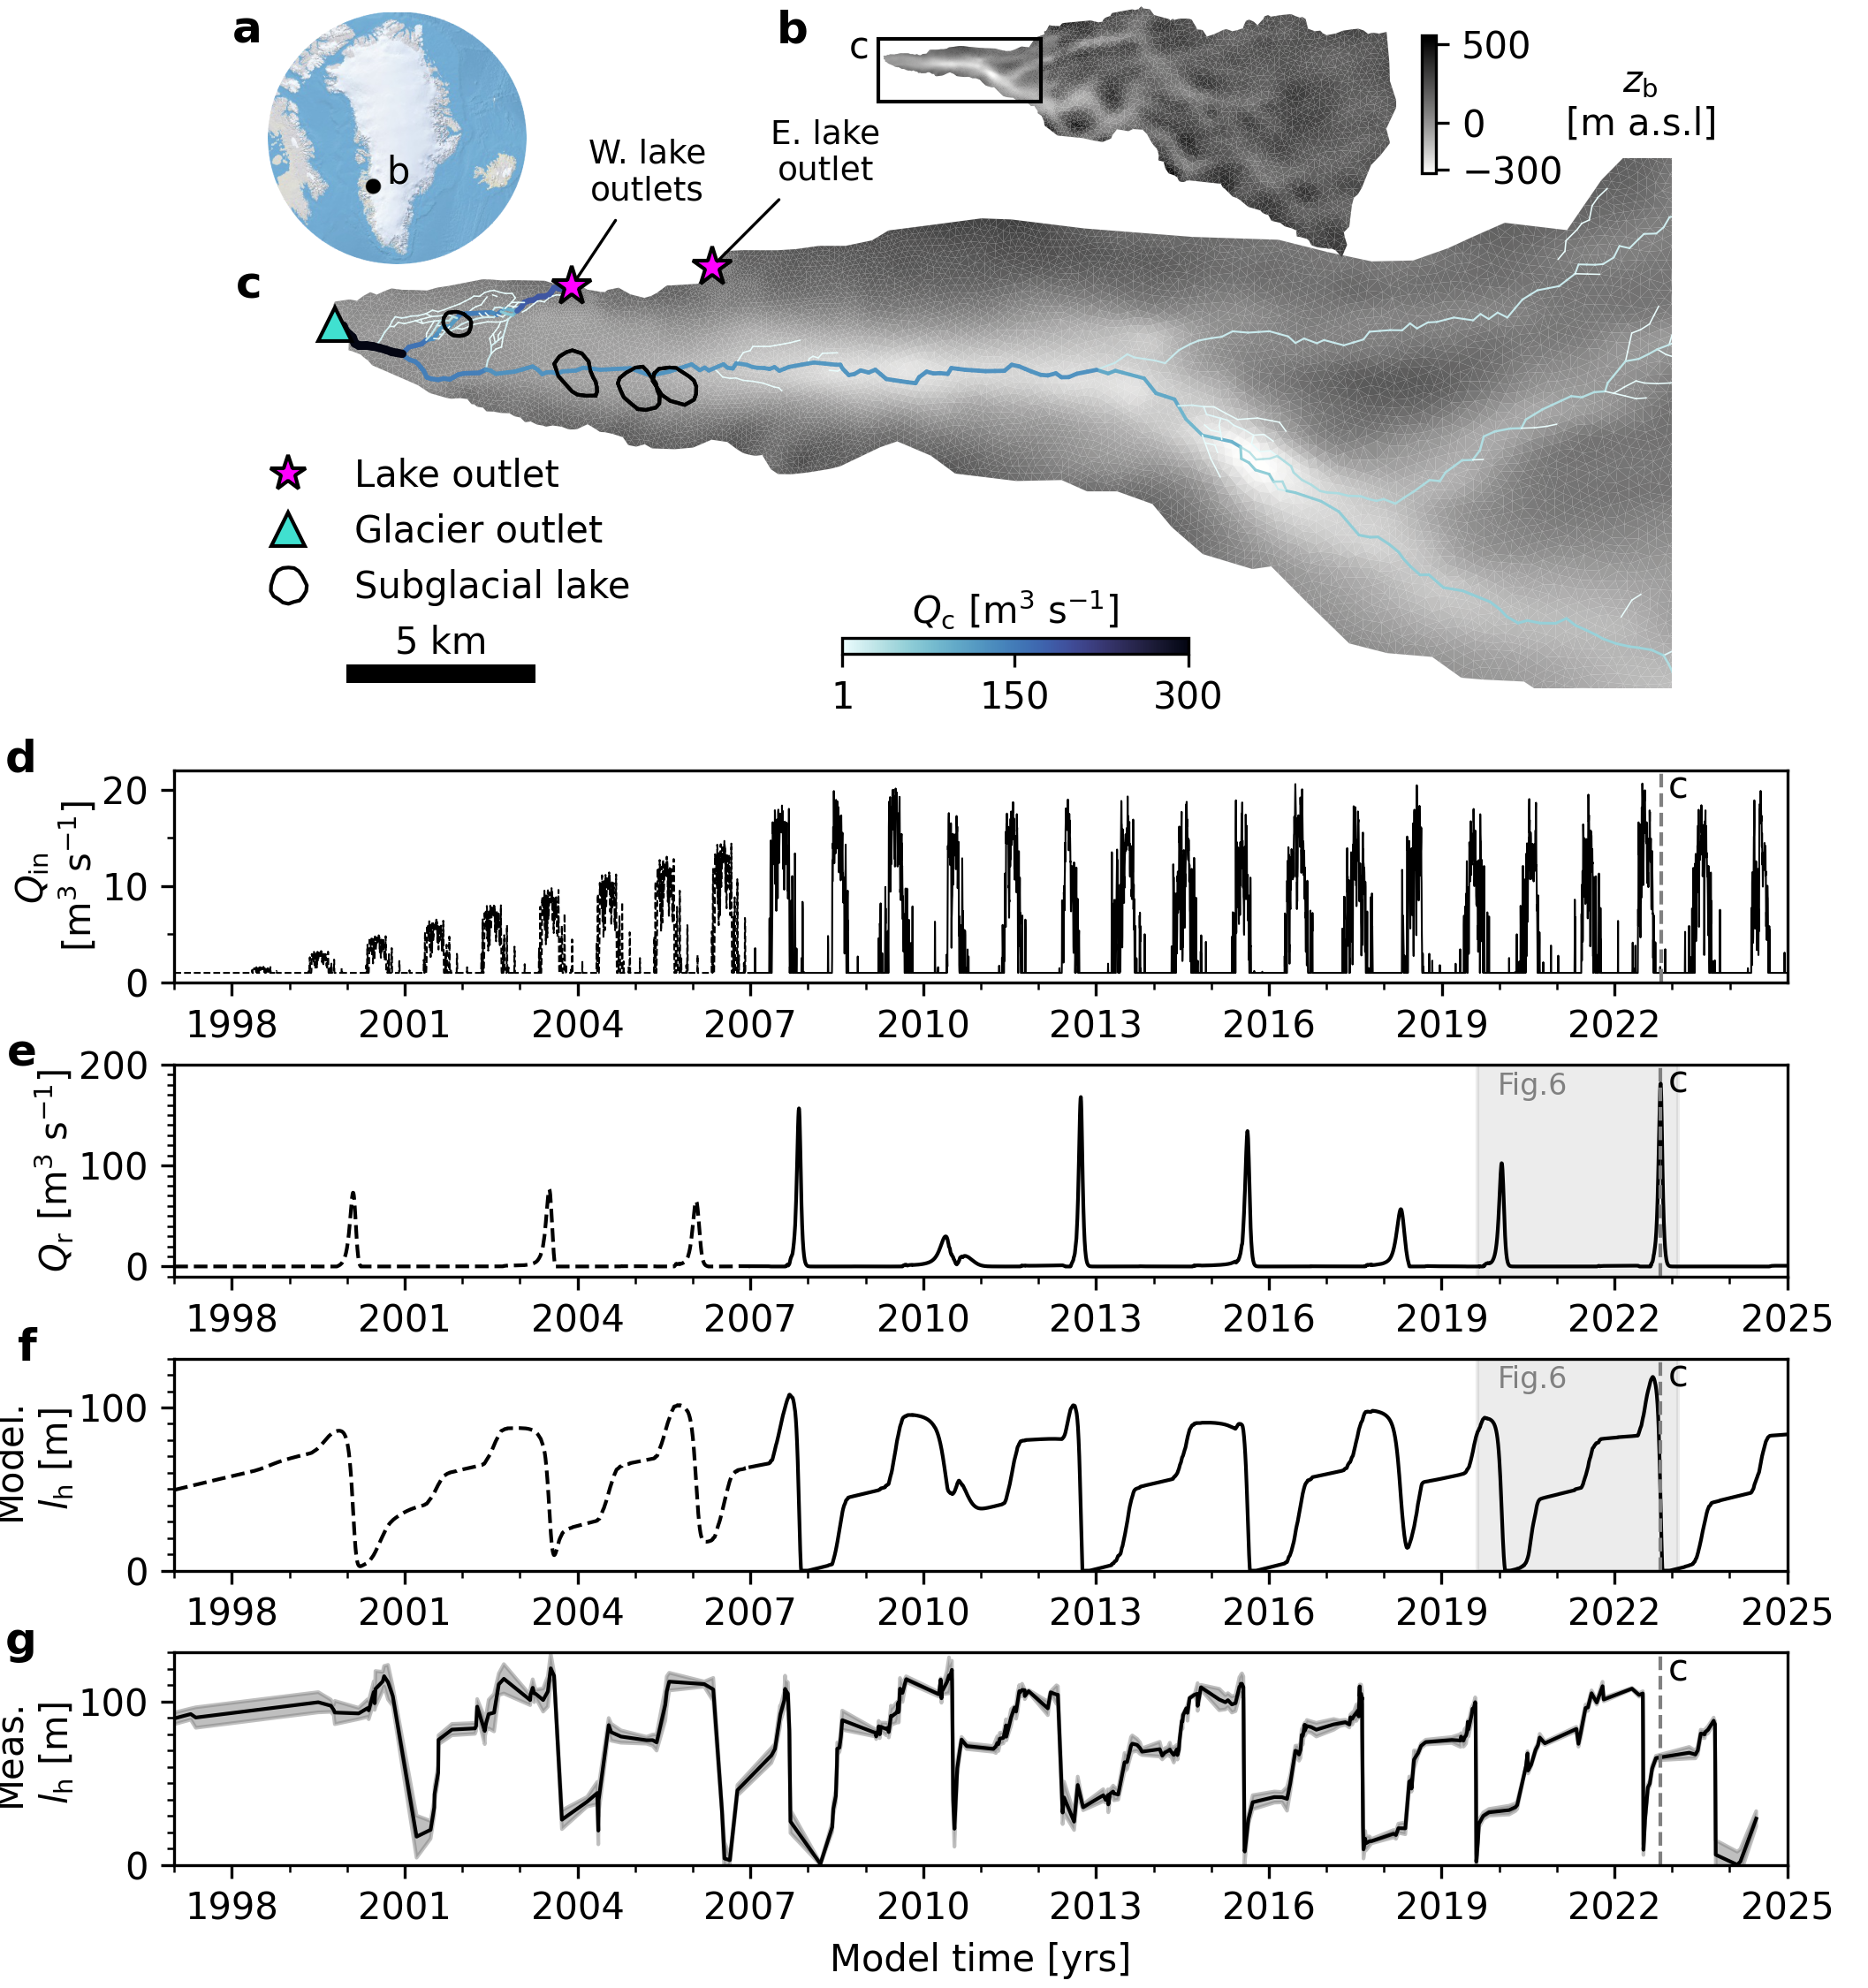
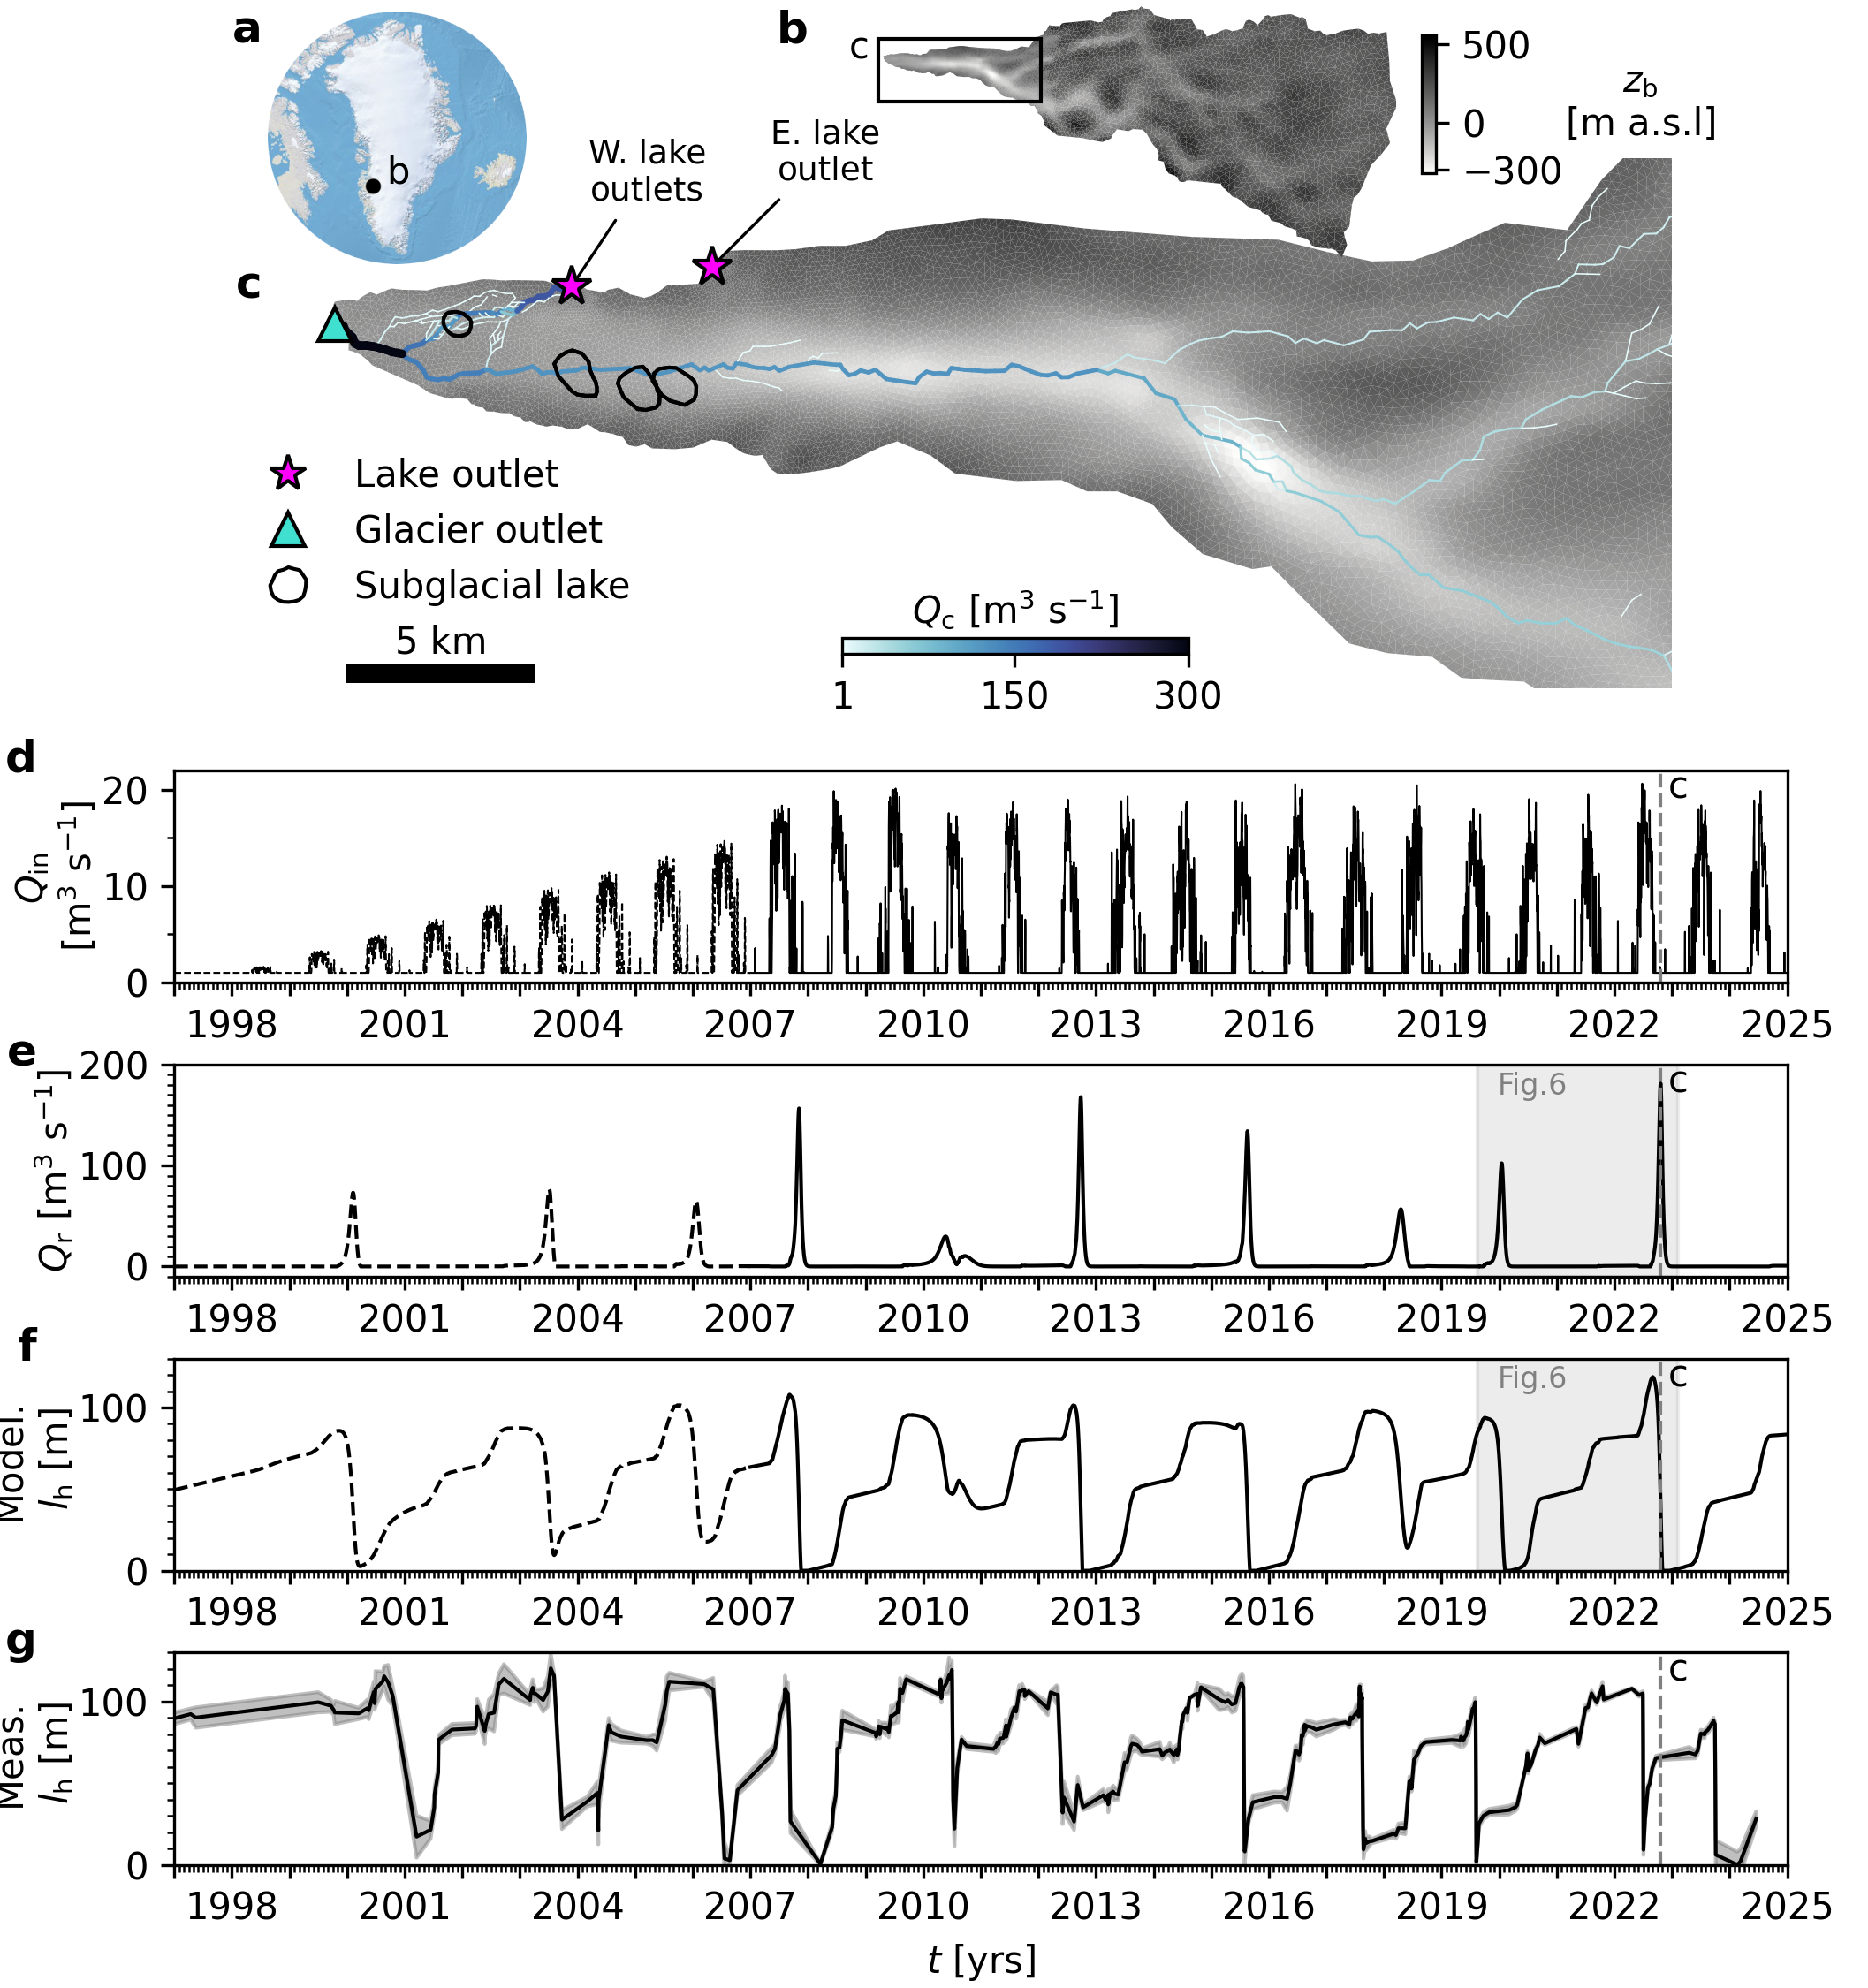
starting the limitations and future work section

diff --git a/manuscript/MANUSCRIPT.tex b/manuscript/MANUSCRIPT.tex
@@ -21,7 +21,7 @@
 
 \begin{document}
 
-\title[2D model of Jökulhlaup]{A physically consistent representation of Jökulhlaup floods in a fully-coupled 2D subglacial hydrology model}
+\title[2D model of jökulhlaup propagation]{A physically consistent representation of jökulhlaup in a fully-coupled 2D subglacial hydrology model}
 
 \author[Hepburn and others]{Adam J. HEPBURN,$^{1,*}$
 Sammie BUZZARD,$^{2}$
@@ -149,12 +149,11 @@ In this paper we build upon earlier 1D work \citep{kingslake2013modelling} by co
 
 \subsection{Ice Flow and subglacial drainage models}\label{methods:GlaDS}
 
-We used the GlaDS model \citep{werder2013modeling} as integrated into ISSM \citep{larour2012continental}. GlaDS itself is a widely used (REF) 2D continuum model of subglacial hydrology. We refer interested readers to Appendix~\ref{Appendix:GlaDS} for an overview of key GlaDS equations, and to \citet{werder2013modeling} for a full description of the equations governing water flow. In summary, GlaDS operates on an anisotropic mesh generated using ISSM and includes a description of i) distributed flow through a series of linked cavities represented as a continuous sheet with variable thickness, and ii) channelised flow through Röthlisberger channels that are represented along element edges. Sheet elements exchange water with channels, and the cross-sectional area of these channels evolves through time due to the dissipation of potential energy, sensible heat exchange, and cavity closure rates due to viscous ice creep. Discharge in both the distributed ($q_{\mathrm{s}}$, $\mathrm{m}^2 \mathrm{s}^{-1}$) and channelised system ($Q_{\mathrm{c}}$, $\mathrm{m}^{3} \mathrm{s}^{-1}$) is driven by gradients in the hydraulic potential, $\nabla \phi$ ($\mathrm{Pa}\,\mathrm{m}^{-1}$), with steeper hydraulic gradients driving enhanced water discharge. In GlaDS, $Q_{\mathrm{c}}$ is always non-zero along every internal edge, though only a few reach a discernible discharge. For ease of visualisation we follow previous work [REF] in declaring edges where $Q_{\mathrm{c}} \geq$1 m$^3$s$^{-1}$ to be `meaningful channels' (e.g., Fig.~\ref{FIG:2}c--e, Fig.~\ref{FIG:5}c, Fig.~\ref{FIG:6}--e). ISSM is a finite element higher-order ice-flow model which operates on anisotropic meshes and can be fully-coupled to additional modelling components \citep{larour2012continental}. In addition to the ice-marginal lake modifications, which we describe below (Section~\ref{methods:Lake}), the primary difference between the original GlaDS \citep{werder2013modeling} and the ISSM version used here is that rather than assuming water flow within the sheet to always be turbulent \citep[cf:][]{werder2013modeling}, we make use of the \citet{hill2024improved} transition parametrisation, whereby sheet flow switches between laminar and turbulent flow according to the local Reynolds number. We also note that in all our model runs, we restricted creep opening once effective pressure was negative [EXPAND and formalise, this will be mentioned in the discussion]. 
-
+We used the GlaDS model \citep{werder2013modeling} as integrated into ISSM \citep{larour2012continental}. GlaDS itself is a widely used (REF) 2D continuum model of subglacial hydrology. We refer interested readers to Appendix~\ref{Appendix:GlaDS} for an overview of key GlaDS equations, and to \citet{werder2013modeling} for a full description of the equations governing water flow. In summary, GlaDS operates on an anisotropic mesh generated using ISSM and includes a description of i) distributed flow through a series of linked cavities represented as a continuous sheet with variable thickness, and ii) channelised flow through Röthlisberger channels that are represented along element edges. Sheet elements exchange water with channels, and the cross-sectional area of these channels evolves through time due to the dissipation of potential energy, sensible heat exchange, and cavity closure rates due to viscous ice creep. Discharge in both the distributed ($q_{\mathrm{s}}$, $\mathrm{m}^2 \mathrm{s}^{-1}$) and channelised system ($Q_{\mathrm{c}}$, $\mathrm{m}^{3} \mathrm{s}^{-1}$) is driven by gradients in the hydraulic potential, $\nabla \phi$ ($\mathrm{Pa}\,\mathrm{m}^{-1}$), with steeper hydraulic gradients driving enhanced water discharge. In GlaDS, $Q_{\mathrm{c}}$ is always non-zero along every internal edge, though only a few reach a discernible discharge. For ease of visualisation we follow previous work [REF] in declaring edges where $Q_{\mathrm{c}} \geq$1 m$^3$s$^{-1}$ to be `meaningful channels' (e.g., Fig.~\ref{FIG:2}c--e, Fig.~\ref{FIG:5}c, Fig.~\ref{FIG:6}--e). ISSM is a finite element higher-order ice-flow model which operates on anisotropic meshes and can be fully-coupled to additional modelling components \citep{larour2012continental}. In addition to the ice-marginal lake modifications, which we describe below (Section~\ref{methods:Lake}), the primary difference between the original GlaDS \citep{werder2013modeling} and the ISSM version used here is that rather than assuming water flow within the sheet to always be turbulent \citep[cf:][]{werder2013modeling}, we make use of the \citet{hill2024improved} transition parametrisation, whereby sheet flow switches between laminar and turbulent flow according to the local Reynolds number. We also prevent cavity expansion by ice creep when $N < 0$ (where $N$ is the effective pressure, or $N=p_{\mathrm{i}}-p_{\mathrm{w}}$, where $p_{\mathrm{i}}$ is ice pressure and $p_{\mathrm{w}}$ is water pressure, $Pa$). GlaDS does not include mechanisms to represent uplift once water pressure exceeds ice overburden \citep{tsaiandrice2010,schoofandothers2012,dow2015} and allowing this behaviour has been shown to inhibit channel formation in overpressurised regions of the bed \citep{hill2024improved}.
 
 %In addition to the ice-marginal lake modifications which we describe below (Section~\ref{methods:Lake}), we note two key differences between the original GlaDS \citep{werder2013modeling} and the ISSM version used here: i) rather than assuming water flow within the sheet to always be turbulent \citep[cf:][]{werder2013modeling}, we make use of the \cite{hill2024improved} transition parametrisation, whereby sheet flow switches between laminar and turbulent flow according to the local Reynolds number, and ii) following \cite{stevens2022tidewater}, we implemented a viscously deforming `elastic sheet layer' which crudely represents hydraulic jacking where water pressure exceeds ice overburden pressure (see Section~\ref{Appendix:GlaDS}). 
 
-To capture the influence of ice-marginal lake drainage on ice dynamics, we include a two-way coupling between ice flow and subglacial hydrology. The GlaDS derived effective pressure ($N=p_{\mathrm{i}}-p_{\mathrm{w}}$, where $p_{\mathrm{i}}$ is ice pressure and $p_{\mathrm{w}}$ is water pressure, $Pa$) modifies basal velocity $U_{\mathrm{b}}$ ($\mathrm{m}\, \mathrm{a}^{-1}$)by governing frictional resistance at the ice-bed interface. In turn, the magnitude of $U_{\mathrm{b}}$ modifies the rate at which cavities open and thereby controls the thickness of the sheet (Eq.~\ref{appeqn: hs_cav}--\ref{appeqn: basal sliding}*). Two-way coupling between ISSM and GlaDS is a relatively new development, and the influence of friction parameters remains the subject of ongoing research \citep[e.g.,][ADD MORE REF]{khan2024inland}, though model response is known to be strongly influenced by the choice of friction law \citep{choi2023impact}. We view this work as necessarily explorative, and we do not undertake a full analysis of the modelling interactions between subglacial hydrology and ice dynamics, which is beyond the scope of this work. Rather, we seek to capture the broad influence ice-marginal lake drainage cycles have upon ice dynamics. Accordingly, we present results using two widely applied friction laws: i) the `Budd-style' friction law [REF] implemented in ISSM in terms of basal stress with the form:
+To capture the influence of ice-marginal lake drainage on ice dynamics, we include a two-way coupling between ice flow and subglacial hydrology. The GlaDS derived effective pressure $N$ modifies basal velocity $U_{\mathrm{b}}$ ($\mathrm{m}\, \mathrm{a}^{-1}$)by governing frictional resistance at the ice-bed interface. In turn, the magnitude of $U_{\mathrm{b}}$ modifies the rate at which cavities open and thereby controls the thickness of the sheet (Eq.~\ref{appeqn: hs_cav}--\ref{appeqn: basal sliding}*). Two-way coupling between ISSM and GlaDS is a relatively new development, and the influence of friction parameters remains the subject of ongoing research \citep[e.g.,][ADD MORE REF]{khan2024inland}, though model response is known to be strongly influenced by the choice of friction law \citep{choi2023impact}. We view this work as necessarily explorative, and we do not undertake a full analysis of the modelling interactions between subglacial hydrology and ice dynamics, which is beyond the scope of this work. Rather, we seek to capture the broad influence ice-marginal lake drainage cycles have upon ice dynamics. Accordingly, we present results using two widely applied friction laws: i) the `Budd-style' friction law [REF] implemented in ISSM in terms of basal stress with the form:
 
 \begin{equation}
 \label{eq:frictionBudd}
@@ -172,7 +171,7 @@ where $\tau_{\mathrm{b}}$ is the basal stress magnitude (UNITS), $C_{\mathrm{b}}
 \end{aligned}
 \end{equation}
 
-where $C_{\mathrm{s}}$ is the \textit{Schoof} friction coefficient, $m$ is a friction law exponent, and $C_{\mathrm{max}}$ is Iken's bound. 
+where $C_{\mathrm{s}}$ is the \textit{Schoof} friction coefficient, $m$ is a friction law exponent, and $C_{\mathrm{max}}$ is Iken's bound. Following \citet{mcarthur2023basal} we limit $N$ to $\geq$3\% of ice overburden pressure to prevent instabilities as $N \to 0$.
 
 
 
@@ -208,7 +207,7 @@ or the sum of the width integrated sheet discharge, $q_{\mathrm{s}}$, and channe
 \end{aligned}
 \end{equation}
 
-at all times, where $g$ is gravitational acceleration ($\mathrm{m}\,\mathrm{s}^{-1}$) and $z_{\mathrm{b}}$ is bed elevation ($\mathrm{m \ a.s.l}$). The evolving $\phi_{\mathrm{outlet}}$ handles the coupling between subgalical hydrology and ice-marginal lake by modifying the local $\nabla \phi$ and therefore changing sheet/channel discharge (see Eq.~\ref{appeqn:gladsqs} \&~\ref{appeqn: Qc}).
+at all times, where $g$ is gravitational acceleration ($\mathrm{m}\,\mathrm{s}^{-1}$) and $z_{\mathrm{b}}$ is bed elevation ($\mathrm{m \ a.s.l}$). The evolving $\phi_{\mathrm{outlet}}$ handles the coupling between subglacial hydrology and ice-marginal lake by modifying the local $\nabla \phi$ and therefore changing sheet/channel discharge (see Eq.~\ref{appeqn:gladsqs} \&~\ref{appeqn: Qc}).
 
 \subsection{Method of numerical solution}\label{methods:Numeric}
 
@@ -224,26 +223,25 @@ We solve for $l_{\mathrm{h}}$ using a Picard fixed-point iteration scheme compri
 Variable & Units & Description \\
 \hline
 $\phi$ & Pa & Hydraulic potential \\
+$N$ & Pa & Effective pressure \\
 $Q_{\mathrm{c}}$ & m$^{3}$s$^{-1}$ & Channel discharge \\
 $q_{\mathrm{s}}$ & $\mathrm{m}^{2}\,\mathrm{s}^{-1}$ & Sheet discharge \\
-$h_{\mathrm{s}}$ & m & Sheet thickness\footnote{Note this includes the elastic sheet and cavity sheet thickness, see Eq.~\ref{appeqn: hs_el}--\ref{appeqn: hs_cav}} \\
+$h_{\mathrm{s}}$ & m & Sheet thickness \\
 $l_{\mathrm{h}}$ & m & Lake Height \\
 $Q_{\mathrm{r}}$ & m$^{3}$s$^{-1}$ & Lake discharge \\
 $U_{\mathrm{b}}$ & $\mathrm{m\,a}^{-1}$ & Magnitude of basal velocity\\
 $\mathrm{u}_{\mathrm{b}}$ & $\mathrm{m\,a}^{-1}$ & x-component of basal velocity \\
-\textit{v}$_{\mathrm{b}}$ & $\mathrm{m\,a}^{-1}$ & y-component of basal velocity \\
+$\mathrm{v}_{\mathrm{b}}$ & $\mathrm{m\,a}^{-1}$ & y-component of basal velocity \\
 $S$ & $\mathrm{m}^2$ & Channel cross-sectional area \\
 \hfill \\
 $t$ & yrs & Time coordinate \\
 $X$ & km & Horizontal coordinate \\
 $Y$ & km & Vertical coordinate \\
-\hfill \\
-\hfill \\
-$N$ & Pa & Effective pressure \\
+
 \hline
 \end{tabular}
 
-\footnotetext{The first section lists dependent variables, the second section lists coordinates, and the third section lists derived variables [FIX ORDER.]}
+\footnotetext{The first section lists dependent variables and the second section lists coordinates}
 
 \end{minipage}
 \end{table}
@@ -350,7 +348,7 @@ In all simulations, the maximum lake height remains below the maximum ice thickn
 \label{FIG:3}
 \end{figure}
 
-The characteristics of the lake filling-drainage cycle across our parameter space also strongly influences the resulting basal velocity signal, and Figure~\ref{FIG:4} shows the width-averaged velocity during at least one complete flood cycle for $k_{\mathrm{c}}$, $k_{\mathrm{s}}$, and $h_{\mathrm{b}}$. Each model follows the reference case with velocity peaking before peak discharge is reached, and dropping rapidly thereafter along the falling limb of a flood. In general, shorter more intense flood cycles lead to a more rapid and higher magnitude velocity response, whereas more broad and less intense flood cycles yield a similar velocity response, maintaining peak velocity for a longer duration. However, the highest basal velocity ($>300 \mathrm{m a}^{-1}$) is associated with the low $k_{\mathrm{c}}$ case (Fig.~\ref{FIG:4}), characterised by muted lake filling-drainage cycles but a relatively high lake-level (Fig.~\ref{FIG:3}a[i]). 
+The characteristics of the lake filling-drainage cycle across our parameter space also strongly influences the resulting basal velocity signal, and Figure~\ref{FIG:4} shows the width-averaged velocity during at least one complete flood cycle for the high/low $k_{\mathrm{c}}$, $k_{\mathrm{s}}$, and $h_{\mathrm{b}}$ cases. Each model follows the reference case with velocity peaking before peak discharge is reached, and dropping rapidly thereafter along the falling limb of a flood. In general, shorter more intense flood cycles lead to a more rapid and higher magnitude velocity response, whereas more broad and less intense flood cycles yield a similar velocity response, maintaining peak velocity for a longer duration. However, the highest basal velocity ($>300 \mathrm{m a}^{-1}$) is associated with the low $k_{\mathrm{c}}$ case (Fig.~\ref{FIG:4}), characterised by muted lake filling-drainage cycles but a relatively high lake-level (Fig.~\ref{FIG:3}a[i]). 
 
 
 \begin{figure}
@@ -367,7 +365,7 @@ We applied our model to Isunnguata Sermia, an outlet glacier in West Greenland d
 
 % Field data, including passive seismics, GNSS, and time-lapse imagery is available for one drainage in 2023 \citep[see; ][]{livingstone2025ice}. 
 
-We discretised our Isunnguata Sermia domain (Source of original catchment?) using an anistropic mesh with an edge length of 150 m close to terminus, increasing to 2 km close to the upper margin of our domain at the approximate ELA (at \( H \approx 1600\ \text{m} \)). The mesh was further refined to a typical edge length of 50 m close to the lake outlets (Fig.~\ref{FIG:5}b,c). Bedmachine v5 was used for $z_{\mathrm{b}}$ and $H$ \citep[][Fig.~\ref{FIG:5}b,c]{Morlighem_Et_Al_2022}. An initialisation $U_{\mathrm{b}}$ was taken from the 2021 MEaSUREs annual mosaic \citep{MEASURES}, from which we inverted for the basal friction coefficient using an L-curve scheme \citep[following; ][]{wolovick2023regularization}. Because we have an observational constraint on ice-surface velocity, we used a Schoof-style friction law (see Eq.~\ref{eq:frictionSchoof}, Section~\ref{methods:GlaDS}) which has been shown to more faithfully represent ice-dynamics with a GlaDS derived $N$ than the Budd-style friction law used in our synthetic experiments \citep{mcarthur2023basal}. Geothermal heat flux was taken from \citet{shapiro2004inferring}, basal melt rates were taken from \citet{karlsson2021first} and surface ice temperature was taken from \citet{ettema2009higher}. The flow-law rate factor $A$ within the ice-column was derived using these surface ice temperatures and assuming a temperature-dependent Arrhenius relation following \citet{cuffey2010physics}.
+We discretised our Isunnguata Sermia domain \citep[derived from][]{lindback2015subglacial} using an anistropic mesh with an edge length of 150 m close to terminus, increasing to 2 km close to the upper margin of our domain at the approximate ELA (at \( H \approx 1600\ \text{m} \)). The mesh was further refined to a typical edge length of 50 m close to the lake outlets (Fig.~\ref{FIG:5}b,c). Bedmachine v5 was used for $z_{\mathrm{b}}$ and $H$ \citep[][Fig.~\ref{FIG:5}b,c]{Morlighem_Et_Al_2022}. An initialisation $U_{\mathrm{b}}$ was taken from the 2021 MEaSUREs annual mosaic \citep{MEASURES}, from which we inverted for the basal friction coefficient using an L-curve scheme \citep[following; ][]{wolovick2023regularization}. Because we have an observational constraint on ice-surface velocity, we used a Schoof-style friction law (see Eq.~\ref{eq:frictionSchoof}, Section~\ref{methods:GlaDS}) which has been shown to more faithfully represent ice-dynamics with a GlaDS derived $N$ than the Budd-style friction law used in our synthetic experiments \citep{mcarthur2023basal}. Geothermal heat flux was taken from \citet{shapiro2004inferring}, basal melt rates were taken from \citet{karlsson2021first} and surface ice temperature was taken from \citet{ettema2009higher}. The flow-law rate factor $A$ within the ice-column was derived using these surface ice temperatures and assuming a temperature-dependent Arrhenius relation following \citet{cuffey2010physics}.
 
 As boundary conditions to our hydrology solution, we imposed Dirichlet conditions along the western and eastern margins of the lake, as well as at the glacier terminus. Neumann (zero-inflow) conditions were imposed elsewhere. Along the western lake margin (where the glacier is always in contact with the lake), we fixed bed elevation equal to the minimum lake elevation (257.9 m a.s.l) at seven vertices, and at the eastern margin we identified the lowest elevation vertex within a group of vertices close to the observed stream and fixed this at 257.9 m. At each lake outlet (magenta stars in Fig.~\ref{FIG:4}), $\phi_\mathrm{outlet}$ was allowed to evolve with $l_{\mathrm{h}}$ (equation~\ref{eq:lakephi}). Because the lake model is spatially lumped and cannot dynamically represent intermittent lake-glacier contact along the eastern margin, prescribing the same boundary conditions here as along the western lake boundary provides a simple and consistent boundary treatment and ensures subglacial channel discharge is fed into the ice-marginal lake. At the glacier terminus we prescribe $\phi$ equal to atmospheric pressure at the lowest elevation boundary vertex (cyan triangle in Fig.~\ref{FIG:5}c). Within the ice-dynamic solution, the boundary velocity is given by the initialisation $U_{\mathrm{b}}$ (Dirichlet), except at the western lake margin where velocity is allowed to evolve freely (Neumann). 
 
@@ -396,9 +394,9 @@ where the temperature-index coefficient $ k $ is equal to $2\ \mathrm{m}^{3}\mat
 \hline
 Description & Symbol & Value & Units \\
 \hline
-Schoof friction coefficient & $C_{\mathrm{s}}$ & & \\
+Schoof friction coefficient & $C_{\mathrm{s}}$ & & $\mathrm{Pa} \ \mathrm{m}^{-1/n}\mathrm{s}^{1/n$ \\
 Iken's bound & $C_{\mathrm{max}}$ & 0.5 & \\
-Channel conductivity & $k_{\mathrm{c}}$ & 0.02 & $\mathrm{m}^{\frac{3}{2}}\mathrm{kg}^{-\frac{1}{2}}$ \\
+Channel conductivity & $k_{\mathrm{c}}$ & 0.02 & $\mathrm{m}^{\frac{3}{2}}$kg$^{-\frac{1}{2}}$ \\
 Sheet conductivity & $k_{\mathrm{s}}$& 0.05 & $\mathrm{Pa\ s}^{-1}$ \\ 
 Basal bump height & $h_{\mathrm{b}}$& 0.05 & m \\
 Englacial void ratio & $e_{\mathrm{v}}$ & 0.01 & \\
@@ -433,9 +431,9 @@ Each flood reaches a higher peak discharge (Fig.~\ref{FIG:5}e) than in the synth
 
 The timing of lake highstands in our transient phase aligns well with that in the observed record. Eight clear lake highstands are evident in the observed record (Fig.~\ref{FIG:5}g) between 2007--2024, seven of which corresponds with an observed lake highstand to within $\sim$2 months (Fig.~\ref{FIG:5}f). Further, There is overall agreement between model and observation for events in which the lake was observed to partially drain (e.g., 2010--2011) rather than drain completely (e.g., 2007--2008) though this match is not perfect (e.g., 2013) and is likely partly influenced by gaps in the observational record \citep{livingstone2025ice}. 
 
-Though variable in peak discharge and duration, the typical evolution of channels during a flood cycle is shown in Fig.~\ref{FIG:6}. On reaching lake highstand, the development of a significant channel connection between the lake and the primary drainage axis enables flood onset and the sharp drop in lake level (Fig.~\ref{FIG:6}b). Once the lake is empty, and $\nabla\phi$ sufficiently low at the western lake outlet, the lake draining channel is starved of supply and shuts down by creep closure. At the lake lowstand, once $\nabla\phi$ is close to atmospheric pressure, drainage into the lake from the eastern lake outlet begins in summer (2020) and the lake quickly fills to $\sim 50\ \mathrm{m}$. In the 2021 summer (Fig.~\ref{FIG:6}d) and 2022 summer, no significant channels develop at the eastern lake outlet, and $Q_{\mathrm{in}}$ accounts for the rise in $l_{\mathrm{h}}$. By the end of the 2022 melt season (Fig.~\ref{Fig:5}c, \& Fig.~\ref{FIG:6}e), a relatively high discharge flood drains the lake via a series of channels connected to the primary drainage axis. Though seven vertices along the western lake outlet are connected to the lake, discharge at the lake boundary is concentrated within a single high-discharge channel. Closer towards the terminus this channel diverges and branches into multiple lower discharge channels running sub-parallel to the main lake-draining channel and perpendicular to $\nabla \phi$ (see Section~\ref{application:synth}). 
+Though variable in peak discharge and duration, the typical evolution of channels during a flood cycle is shown in Fig.~\ref{FIG:6}. On reaching lake highstand, the development of a significant channel connection between the lake and the primary drainage axis enables flood onset and the sharp drop in lake level (Fig.~\ref{FIG:6}b). Once the lake is empty, and $\nabla\phi$ sufficiently low at the western lake outlet, the lake draining channel is starved of supply and shuts down by creep closure. At the lake lowstand, once $\nabla\phi$ is close to atmospheric pressure, drainage into the lake from the eastern lake outlet begins in summer (2020) and the lake quickly fills to $\sim 50\ \mathrm{m}$. In the 2021 summer (Fig.~\ref{FIG:6}d) and 2022 summer, no significant channels develop at the eastern lake outlet, and $Q_{\mathrm{in}}$ accounts for the rise in $l_{\mathrm{h}}$. By the end of the 2022 melt season (Fig.~\ref{FIG:5}, \& Fig.~\ref{FIG:6}e), a relatively high discharge flood drains the lake via a series of channels connected to the primary drainage axis. Though seven vertices along the western lake outlet are connected to the lake, discharge at the lake boundary is concentrated within a single high-discharge channel. Closer towards the terminus this channel diverges and branches into multiple lower discharge channels running sub-parallel to the main lake-draining channel and perpendicular to $\nabla \phi$ (see Section~\ref{application:synth}). 
 
-Fig.~\ref{FIG:7} shows the mean $U_{\mathrm{b}}$ between 2014--2025 and the $U_{\mathrm{b}}$ anomaly associated with the modelled 2022 flood (Fig.~\ref{FIG:7}--d) and the observed 2023 flood (Fig.~\ref{FIG:7}--h) from \citet{livingstone2025ice}. Each are interpolated onto the same model mesh. Decomposed into $x-$/$y-$ components of basal velocity $U_{\mathrm{b}}$ the mean model velocity (Fig.~\ref{FIG:7}a,b) is in close agreement with the mean observed velocity (Fig.~\ref{FIG:7}e,f), although the model predicts a higher mean $y-$ component of $U_{\mathrm{b}}$ close to the lake margin (Fig.~\ref{FIG:7}b) than is observed (Fig.~\ref{FIG:7}h). The lake-drainage anomalies (Fig.~\ref{FIG:7}c,d,g,h), generated by subtracting the overall mean velocity from the mean velocity during a lake drainage event, agree well in terms of overall pattern of slow-down and acceleration, but differ in both detail and magnitude. The observed lake-drainage anomalies are higher in  magnitude, particularly close to the model boundary. The observed $y-$ component of $U_{\mathrm{b}}}$ is also more spatially variable than the equivalent model data, showing ice-acceleration towards the ice-marginal lake across a wider area of the terminus than the model, where acceleration is concentrated close to the lake-margin. 
+Fig.~\ref{FIG:7} shows the mean components of $U_{\mathrm{b}}$ between 2014--2025 and the $U_{\mathrm{b}}$ anomaly associated with the modelled 2022 flood (Fig.~\ref{FIG:7}--d) and the observed 2023 flood (Fig.~\ref{FIG:7}--h) from \citet{livingstone2025ice}. Each are interpolated onto the same model mesh. Decomposed into $x-$ ($\mathrm{u}_{\mathrm{b}}$) and $y-$ ($\mathrm{v}_{\mathrm{b}}$) components of basal velocity $U_{\mathrm{b}}$ the mean model velocity (Fig.~\ref{FIG:7}a,b) is in close agreement with the mean observed velocity (Fig.~\ref{FIG:7}e,f), although the model predicts a higher mean $\mathrm{v}_{\mathrm{b}}$ close to the lake margin (Fig.~\ref{FIG:7}b) than is observed (Fig.~\ref{FIG:7}h). The lake-drainage anomalies (Fig.~\ref{FIG:7}c,d,g,h), generated by subtracting the overall mean velocity from the mean velocity during a lake drainage event, agree well in terms of overall pattern of slow-down and acceleration, but differ in both detail and magnitude. The observed lake-drainage anomalies are higher in  magnitude, particularly close to the model boundary. The observed $\mathrm{v}_{\mathrm{b}}$ is also more spatially variable than the equivalent model data, showing ice-acceleration towards the ice-marginal lake across a wider area of the terminus than the model, where acceleration is concentrated close to the lake-margin. 
 
 
 
@@ -448,7 +446,7 @@ Fig.~\ref{FIG:7} shows the mean $U_{\mathrm{b}}$ between 2014--2025 and the $U_{
 
 \begin{figure}
 \centering{\includegraphics[width=0.45\textwidth]{./figures/Figure_7/Figure_7.png}}
-\caption{Comparison of modelled (a--d) and observed (e--h) velocity during a lake drainage. \textbf{a--b}) Mean modelled velocity components, $u_{\mathrm{b}}$ (a) and  $v_{\mathrm{b}}$ (b), for the model years 2014--2025. \textbf{c--d}) Anomalies in velocity components, $u_{\mathrm{b}}$ (c) and  $v_{\mathrm{b}}$ (d), during the modelled 2018 lake drainage (see Fig~\ref{FIG:5} \& \ref{FIG:6}. \textbf{e--f}) Mean observed velocity components, $u_{\mathrm{b}}$ (e) and  $v_{\mathrm{b}}$ (f), between 2014--2025. \textbf{g--h}) Anomalies in velocity components, $u_{\mathrm{b}}$ (g) and  $v_{\mathrm{b}}$ (h), during an observed lake drainage in 2023 (see Fig~\ref{FIG:5}g). Lake drainage anomalies (c--d \& g--h) calculated by subtracting mean velocity components (2014--2025) from the mean velocity components during a lake drainage event, red colours indicate higher velocity during the lake drainage and blue colours indicate slower velocity. Observed velocity components estimated from Sentinel-1a and Sentinel-1b Synthetic  Aperture  Radar  (SAR), see \citet{livingstone2025ice} for details.}
+\caption{Comparison of modelled (a--d) and observed (e--h) velocity during a lake drainage flood. \textbf{a--b}) Mean modelled velocity components, $\mathrm{u}_{\mathrm{b}}$ (a) and  $\mathrm{v}_{\mathrm{b}}$ (b), for the model years 2014--2025. \textbf{c--d}) Anomalies in $\mathrm{u}_{\mathrm{b}}$ (c) and  $\mathrm{v}_{\mathrm{b}}$ (d), during the modelled 2022 flood (see Fig~\ref{FIG:5} \& \ref{FIG:6}. \textbf{e--f}) Mean $\mathrm{u}_{\mathrm{b}}$ (e) and  $\mathrm{v}_{\mathrm{b}}$ (f), between 2014--2025. \textbf{g--h}) Anomalies in $\mathrm{u}_{\mathrm{b}}$ (g) and  $\mathrm{v}_{\mathrm{b}}$ (h), during an observed lake drainage in 2023 (see Fig~\ref{FIG:5}g). Flood anomalies (c--d \& g--h) calculated by subtracting mean $\mathrm{u}_{\mathrm{b}}$/$\mathrm{v}_{\mathrm{b}}$ (2014--2025) from the mean $\mathrm{u}_{\mathrm{b}}$/$\mathrm{v}_{\mathrm{b}}$ during a lake drainage event. Observed $\mathrm{u}_{\mathrm{b}}$/$\mathrm{v}_{\mathrm{b}}$ from Sentinel-1a and Sentinel-1b Synthetic Aperture Radar, see \citet{livingstone2025ice} for details.}
 \label{FIG:7}
 \end{figure}
 
@@ -458,37 +456,75 @@ Fig.~\ref{FIG:7} shows the mean $U_{\mathrm{b}}$ between 2014--2025 and the $U_{
 
 The model presented here, the first time a time-evolving ice-marginal lakes has been coupled to a 2D representation of subglacial hydrology, corroborates many of the findings from earlier 1D work (e.g., REF). In our synthetic domain stable and recurrent jökulhlaup are a feature of the default case (Fig.~\ref{FIG:2}) and across the majority of sensitivity tests (Fig.~\ref{FIG:3}). The lake gradually fills at a rate governed by the magnitude of the extraglacial input rate, $Q_{\mathrm{in}}$ and floods initiate once lake depth, $l_{\mathrm{h}}$ reaches between 50--80$\%$ of ice thickness, $H$, corresponding to between 55--90$\%$ of ice overburden pressure. Across our sensitivity tests, higher peak flood discharge, $Q_{\mathrm{r}}$ is typically associated with higher $l_{\mathrm{h}}$ and reflects parameter combinations in which the efficiency or capacity of the distributed sheet is reduced (e.g., lower sheet conductivity, $k_{\mathrm{s}}$, lower bump height, $h_{\mathrm{b}}$, higher cavity spacing, $l_{\mathrm{r}}$). Decreasing the relative efficiency of the sheet reduces leakage from the lake into the distributed system and permits a greater $\nabla\phi$ close to the lake outlet, which once sufficiently steep, then promotes relatively rapid lake drainage via subglacial channels. 
 
-Increasing the capacity or efficiency of the distributed sheet either prevents lake drainage entirely with $Q_{\mathrm{in}}$ equilibrium with $Q_{\mathrm{r}}$, or limits the lake highstand and ensures a lower lake volume drains more gradually, with a higher proportion of discharge accommodated without recourse to efficient channelisation. Peak $l_{\mathrm{h}}$ is reduced when the efficiency of the channel is increased (high channel conductivity, $k_{\mathrm{c}}$), but the amplitude of $l_{\mathrm{h}}$ remains similar, and because of the $k_{\mathrm{c}}$ contribution in Eq.~\ref{appeqn: Qc} discharge increases and the lake drains completely with each cycle. Increasing the sheet width contributing to channelisation, $l_{\mathrm{c}}$, reduces both the lake highstand and the peak flood discharge by increasing the lateral exchange flux between sheet and channel. The channel receives more water and enlarges earlier in the lake-filling phase, raising the overall efficiency of the system and draining the lake at a lower $\nabla\phi$. Reduced $l_{\mathrm{h}}$ and $\nabla \phi$ lowers peak $Q_{\mathrm{r}}$ despite the relatively large channel. 
+Increasing the capacity or efficiency of the distributed sheet either prevents lake drainage entirely with $Q_{\mathrm{in}}$ equilibrium with $Q_{\mathrm{r}}$, or limits the lake highstand and ensures a lower lake volume drains more gradually, with a higher proportion of discharge accommodated without triggering efficient channelisation. Peak $l_{\mathrm{h}}$ is reduced when the efficiency of the channel is increased (high channel conductivity, $k_{\mathrm{c}}$), but the amplitude of $l_{\mathrm{h}}$ remains similar, and because of the $k_{\mathrm{c}}$ contribution in Eq.~\ref{appeqn: Qc} discharge increases and the lake drains completely with each cycle. Increasing the sheet width contributing to channelisation, $l_{\mathrm{c}}$, reduces both the lake highstand and the peak flood discharge by increasing the lateral exchange flux between sheet and channel. The channel receives more water and enlarges earlier in the lake-filling phase, raising the overall efficiency of the system and draining the lake at a lower $\nabla\phi$. Reduced $l_{\mathrm{h}}$ and $\nabla \phi$ lowers peak $Q_{\mathrm{r}}$ despite the relatively large channel. 
 
 Our model also reproduces a similar overall response in basal velocity, $U_{\mathrm{b}}$, to flood propagation as in previous work \citep{kingslake2013modelling}. Namely, across the sensitivity tests shown in Fig.~\ref{FIG:4} there is a marked increase in velocity during flood growth and an abrupt slowdown during flood recession after peak $Q_{\mathrm{r}}$. A similar pattern of acceleration and deceleration in sliding velocity has been observed during jökulhlaup at Gorenergletscher, Switzerland [REF] and Skaftá, Iceland [REF]. Across our sensitivity tests, higher and more sustained increases in $U_{\mathrm{b}}$ are associated with increased sheet efficiency and the lower $Q_{\mathrm{r}}$ and longer flood wavelengths that results. With a longer flood growth, more discharge is accommodated within the sheet for longer, sustaining the low effective pressure, $N$ necessary to enable fast ice flow. Conversely, with more efficient channelised drainage during shorter, more intense flooding, the $U_{\mathrm{b}}$ response is both shorter and lower in peak velocity because efficient drainage develops more readily, increasing effective pressure over the glacier bed and inhibiting basal sliding.
 
-A notable distinction between our synthetic results and that of \citet{kingslake2013modelling} is the model response to changes in basal melt, $M_{\mathrm{r}}$ \citep[denoted by cavity water supply $M_{\mathrm{c}}$ in ][]{kingslake2013modelling}. In the 1D Kingslake and Ng model, an increase in basal melt reduces the peak flood $Q_{\mathrm{r}}$, whereas here, increasing the basal melt rate (substantially, from a base of 0.25 m a$^{-1}$ to 5 m a$^{-1}$) doubles peak $Q_{\mathrm}}$ (Fig.~\ref{FIG:3}e[ii]). 
+A notable distinction between our synthetic results and that of \citet{kingslake2013modelling} is the model response to changes in basal melt, $M_{\mathrm{r}}$ \citep[denoted by cavity water supply $M_{\mathrm{c}}$ in ][]{kingslake2013modelling}. In the 1D Kingslake and Ng model, an increase in basal melt reduces the peak flood $Q_{\mathrm{r}}$, whereas here, increasing the basal melt rate (substantially, from a base of 0.25 m a$^{-1}$ to 5 m a$^{-1}$) doubles peak $Q_{\mathrm{r}}$ (Fig.~\ref{FIG:3}e[ii]). 
 [EXPLAIN WHY]. 
 
-The overall agreement between the synthetic results in this work and that of earlier work is no surprise, the lake is governed by equations closely related and the underlying hydrology models are subject to many of the same physical assumptions. Instead, the novelty of the work presented here lies in the introduction of two-dimensions to the description of the lake-adjacent glacier. In the simple synthetic case, the impact of this is limited, though the local control of the lake on $\nabla \phi$ does generate  
-channels sharply offset by 20--40$^{\degree}$ relative to the central axis of the glacier (Fig.~\ref{FIG:2}c--e). This lateral expansion of the jökulhlaup through the subglacial system results in a distinctive pattern of $\nabla\phi$ and an arborescent channel propagation which expands outwards from the central lake outlet position during a flood before collapsing into a few flow-parallel channels close to the terminus. This behaviour contrasts sharply to the near-parallel channels expected in the absence of significant lateral topographic variation whereby the basic hydraulic potential was governed by ice surface slope alone \citep[e.g., see Figure 2 in][]{werder2013modeling}. Lateral propogation of flood water within the subglacial system during a jökulhlaup has been invoked as the driving mechanism behind short-term deviations in GPS measurements towards the ice-margins observed during jökulhlaup at Gorenergletscher, Switzerland [REF].
+The overall agreement between the synthetic results in this work and that of earlier work is no surprise, the lake is governed by equations closely related and the underlying hydrology models are subject to many of the same physical assumptions. Instead, the novelty of the work presented here lies in the introduction of two-dimensions to the description of the lake-adjacent glacier. In the simple synthetic case, the impact of this is subtle, though the local control of the lake on $\nabla \phi$ does generate  
+channels sharply offset by 20--40$^{\degree}$ relative to the central axis of the glacier (Fig.~\ref{FIG:2}c--e). This lateral expansion of the jökulhlaup through the subglacial system results in a distinctive pattern of $\nabla\phi$ and an arborescent channel propagation which expands outwards from the central lake outlet position during a flood before collapsing into a few flow-parallel channels close to the terminus. This behaviour contrasts sharply to the near-parallel channels expected in the absence of significant lateral topographic variation whereby the basic hydraulic potential was governed by ice surface slope alone \citep[e.g., see Figure 2 in][]{werder2013modeling}. Lateral propagation of flood water within the subglacial system during a jökulhlaup has been invoked as the driving mechanism behind short-term deviations in GPS measurements towards the ice-margins observed during jökulhlaup at Gorenergletscher, Switzerland [REF].
 
-While in our simple synthetic case, the influence of introducing two dimensions to the hydrology solution is limited, the coupling of a 2D hydrology solution to the lumped lake model permits a more faithful representation of a complex real-world domain than has previously been possible (see Section~\ref{application:greenland}). Here, with the addition of both a transient surface mass balance, and a transient $Q_{\mathrm{in}}$ from a simple temperature index model (see Eq.~\ref{eq:Tempindex}), our model application to Isunnguata Sermia in west Greenland delivered promising results. The evolution of $l_{\mathrm{h}}$ through time in our model (Fig.~\ref{FIG:5}f) closely matches the observed record reported by \citet[][Fig.~\ref{FIG:5},g]{livingstone2025ice}. Between 2007 and the end of the observational record in mid 2024, eight significant floods from the ice-marginal lake are recorded from remote sensing records (Fig.~\ref{FIG:5}g). Of these floods, seven are clearly represented within the modelling record (Fig.~\ref{FIG:5}f), closely agreeing with the observed record both in terms of timing and the amplitude of change in $l_{\mathrm{h}}$. 
+While in our simple synthetic case, the influence of introducing two dimensions to the hydrology solution is limited, the coupling of a 2D hydrology solution to the lumped lake model permits a more faithful representation of a complex real-world domain than has previously been possible (see Section~\ref{application:greenland}). We tested our model on Isunnguata Sermia, a large land-terminating outlet glacier in Greenland. Here, with the addition of both a transient surface mass balance, and a transient $Q_{\mathrm{in}}$ from a simple temperature index model (see Eq.~\ref{eq:Tempindex}), our model delivered promising results. The evolution of $l_{\mathrm{h}}$ through time in our model (Fig.~\ref{FIG:5}f) closely matches the observed record reported by \citet[][Fig.~\ref{FIG:5},g]{livingstone2025ice}. Between 2007 and the end of the observational record in mid 2024, eight significant floods from the ice-marginal lake are recorded from remote sensing records (Fig.~\ref{FIG:5}g). Of these floods, seven are clearly represented within the modelling record (Fig.~\ref{FIG:5}f), closely agreeing with the observed record both in terms of timing and the amplitude of change in $l_{\mathrm{h}}$. 
 
-As well as a close agreement in terms of $l_{\mathrm{h}}$, our results corroborate additional observations from the Isunnguata Sermia site. Drainage of the lake via an aborescent channelised network (as shown in Fig.~\ref{FIG:5}c \&~\ref{FIG:6}b--e) occurs directly through the site of a purported subglacial lake identified from anomalous surface elevation data \citep{livingstone2025ice}. Flood water from the ice-marginal lake is invoked as the tirggering mechanism behind the release of stored subglacial lake water at this site 
+Isunnguata Sermia is a well-studied glacier (e.g., REF), and as well as a close agreement in terms of $l_{\mathrm{h}}$, our results corroborate additional observations from the site. Recently, a series of elevation anomalies have been identified close to the terminus at Isunnguata Sermia and are reasoned to represent ice surface uplift driven by the filling and draining of subglacial lakes \citep{livingstone2019brief,livingstone2025ice}. Three subglacial lakes lie due south of the primary drainage axis \citep[Fig.~\ref{FIG:5}c, \&~\ref{FIG:6}b--e][]{livingstone2019brief} and a fourth, more recently identified \citep{livingstone2025ice}, lies to the southwest of the ice-marginal lake (Fig.~\ref{FIG:5}c, \&~\ref{FIG:6}b--e). Flood water from the ice-marginal lake is implicated in the observed 2019 surface lowering associated with this fourth subglacial lake\citep{livingstone2025ice}. In our model, drainage of the lake via an aborescent channelised network directly through the subglacial lake (as shown in Fig.~\ref{FIG:5}c \&~\ref{FIG:6}b--e) supports this hypothesis. 
 
-
-
-
+Finally, our model results reproduce some of the observations relating to ice-dynamics at Isunnguata Sermia. The modelled and observed patterns of velocity, decomposed into $\mathrm{u}_{\mathrm{b}}$ ($x-$component) and $\mathrm{v}_{\mathrm{b}}$ ($y-$component), are shown in Fig.~\ref{FIG:7}. We show both the background velocity between 2014--2025 (the span of observations) and the velocity anomaly during a flood (given by subtracting the background mean $\mathrm{u}_{\mathrm{b}}$/$\mathrm{v}_{\mathrm{b}}$ from the mean $\mathrm{u}_{\mathrm{b}}$/$\mathrm{v}_{\mathrm{b}}$ during a flood). In Fig.~\ref{FIG:7}c \& g, red colours indicate ice acceleration towards the terminus during a flood, and in In Fig.~\ref{FIG:7}d \& h, blue indicates ice flow acceleration towards the lake during a flood, and red indicates ice flow acceleration away from the lake. Both our model and observations show acceleration along the primary flow direction during a flood and a component of acceleration towards the lake concentrated along the western lake outlet. \citet{livingstone2025ice} attributed the observed acceleration to i) ice inflow into the lake as a result of a sudden drop in water level and change in force balance at the ice front, and ii) a reduction in basal friction as the sudden influx of flood water overpressurises the nascent distributed system becoming reestablished at the end of the melt season. The boundary conditions in our ice-dynamic solution remain fixed through time and we do not simulate the change in frontal forces as the lake drops during a flood, in effect, our Neumann boundary condition corresponds to a permanently empty lake (see Section~\ref{application:setup}). As a result we overestimate the background $\mathrm{v}_{\amthrm{b}}$ into the lake (Fig.~\ref{FIG:7}b) and underestimate the anomaly associated with lake drainage (Fig.~\ref{FIG:7}d). Nonetheless, our modelling does reproduce limited acceleration into the lake during a flood and we suggest this a result of overpressurisation of the distributed system during a jökulhlaup. 
 
 
+\subsection{Shortcomings and future work}
 
-Our model results also reproduce some of the observations relating to ice-dynamics, including the pattern of ice-velocity following a post-melt season drainage event (Fig.~\ref{FIG:7}). 
-
+Though our model does represent the spatial expression and timing of ice-marginal lake drainage, as in the earlier 1D work \citep{kingslake2013modelling}, our synthetic and Greenland cases predict unrealistically long flood durations extending multiple months. This stands in clear contrast to the days--weeks more typically associated with jökulhlaup derived from ice-marginal lakes (e.g., REF) and is much longer than the typically one-week duration observed at Isunnguata Sermia \citep{livingstone2025ice}. This discrepancy is attributable to shortcomings and simplifications in our modelling setup (Section~\ref{methods:Lake}), and with GlaDS more generally \citep{werder2013modeling}. GlaDS, and by extension the modelling presented here, does not include a physical representation of elastic uplift of ice once water pressure exceeds ice overburden pressure. This together with our decision to prevent cavity expansion when 
 
 
 
 
 
 
+%In GlaDS itself, the bed is assumed to be pervasively hydraulically connected [ref]. GlaDS is therefore unable to represent the phenomena of co-located but hydraulically distinct boreholes/moulin pressure records, which are suggestive of spatial heterogeneity in the hydraulic connectivity of the glacier bed. Such a mechanism may impede the 
 
 
-\subsection{Shortcomings and modelling issues}
+
+
+
+
+In GlaDS, the bed is assumed to be pervasively hydraulically connected, and has been shown to be unable to represent the frequently observed phenomena of co-located but hydraulically distinct borehole records (REF)
+
+
+
+ Jökulhlaups derived from ice-marginal lakes are typically observed to occur over much shorter timescales of days--weeks [REF], reaching higher peak $Q_{\mathrm{r}}$ as a result. At Isunnguata Sermia, 
+
+
+
+
+
+
+unrealistically long flood durations, extending over multiple months, rather than the days to weeks jökulhlaup derived from ice-marginal lakes have been observed to occur over in Isunnguata Sermia \citep{livingstone2025ice} and elsewhere [REF].  
+
+
+
+
+
+
+
+
+
+
+
+
+
+
+
+
+
+
+
+
+
+
+
+
 
 
 Our modelling presents a smoothed 
@@ -505,29 +541,8 @@ As in the earlier 1D work, both our synthetic and Greenland domains predict unre
 
 parameter non-uniqueness means the match doesn't uniquely constrain the system — i.e. the model reproduces observations but other parameter combinations may too, which matters for any future predictive application.
 
-\subsection{Future considerations}
+\subsection{Future work}
 
-
-
-
-
-
-
-
-
-
-
-
-
-\begin{itemize}
-\item model reproduces 1) many observed characteristics of Jokulhlaup theory, 2) matches well with Felix and Jonny's work, and 3) successfully reproduces many of the characteristics of IS flooding
-
-\item However it is not perfect, initial conditions are a key uncertainty, as well as the other physically uncertain GlaDS parameters, noting we only carried out a partial sweep here, others were run but had limited influence on drainage characteristics . Something akin to Tim's Gaussian GP emulation might offer a way to more rapidly test the parameter space and select an optimum starting condition. 
-
-\item Future work 
-
-
-\end{itemize}
 
 \section{Conclusions}
 